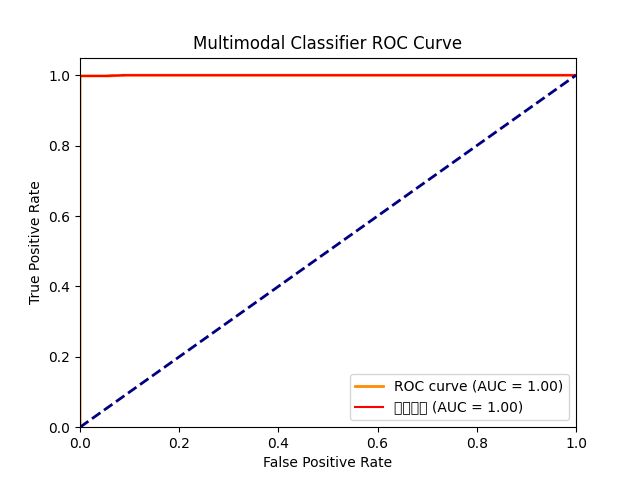
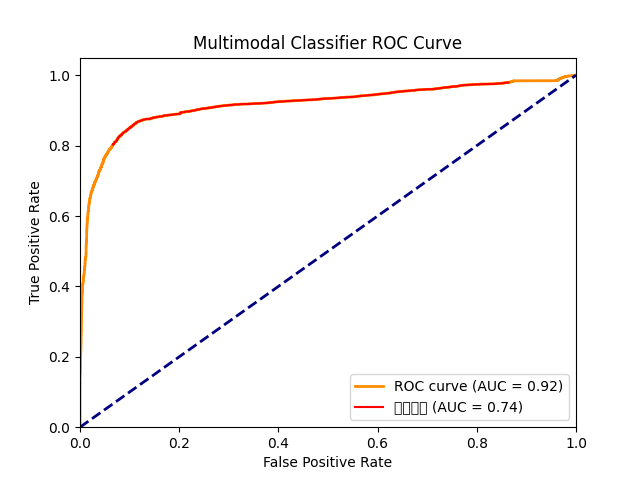
2025年7月2日，修改模态的融合方式

diff --git a/classification/modal_main.py b/classification/modal_main.py
@@ -5,7 +5,7 @@ sys.path.append('./utils')
 import torch
 import argparse
 from Config import config
-from utils.data_read import read_tensor, split_dataset, read_tensor_emr, read_emr
+from utils.data_read import read_tensor, read_tensor_emr, read_emr, read_kg
 from utils.common import save_model, loss_draw, acc_draw, other_draw, earlystop_draw
 from utils.dataprocess import Uni_processor, Processor
 from unitrainer import Trainer
@@ -18,11 +18,11 @@ parser = argparse.ArgumentParser()
 parser.add_argument('--do_train', action = 'store_true', help = '训练模型')
 parser.add_argument('--lr', default = 1e-4, help = '设置学习率', type = float)
 parser.add_argument('--weight_decay', default = 1e-4, help = '设置权重衰减', type = float)
-parser.add_argument('--epoch', default = 10, help = '设置训练轮数', type = int)
+parser.add_argument('--epoch', default = 100, help = '设置训练轮数', type = int)
 parser.add_argument('--do_test', action = 'store_true', help = '预测测试集数据')
 parser.add_argument('--load_model_path', default = None, help = '已经训练好的模型路径', type = str)
 parser.add_argument('--model_type', default = 'multimodal', action = 'store', help = '是否多模态融合', type = str)
-parser.add_argument('--fusion_type', default = 'KGBased', action = 'store', help = '多模态融合方式', type = str)
+parser.add_argument('--fusion_type', default = 'Bicrossmodel', action = 'store', help = '多模态融合方式', type = str)
 
 args = parser.parse_args()
 config.learning_rate = args.lr
@@ -43,6 +43,8 @@ if config.model_type == 'unimodal':
         from model.Unimodal import Univision_sa as unimodel
     elif config.fusion_type == 'Uniemr':
         from model.Unimodal import Uniemr as unimodel
+    elif config.fusion_type == 'Unikg':
+        from model.Unimodal import Unikg as unimodel
     model = unimodel(config)
     trainer = Trainer(config, processor, model, device)
 elif config.model_type == 'multimodal':
@@ -65,9 +67,12 @@ def train():
     if not config.model_type == 'unimodal':
         data = read_tensor_emr(config.labelfile, config.tensor_path, config.emr_path)
     
-    else:
+    elif config.fusion_type == 'Univision' or config.fusion_type == 'Univision_sa':
         data = read_tensor(config.labelfile, config.tensor_path)
-        # data = read_emr(config.labelfile, config.tensor_path, config.emr_path)
+    elif config.fusion_type == 'Uniemr':
+        data = read_emr(config.labelfile, config.tensor_path, config.emr_path)
+    else:
+        data = read_kg(config.labelfile, config.tensor_path)
         
     train_data = []
     val_data = []
@@ -81,12 +86,7 @@ def train():
             train_data.append(lookup_data[line.strip('\n')])
     with open('./data/exclusion_valid_id.txt', 'r') as f:
         for line in f.readlines():
-            val_data.append(lookup_data[line.strip('\n')])
-
-    # else:
-    #     data = read_tensor(config.labelfile, config.tensor_path)
-        # train_data, val_data, _ = split_dataset(data, config.train_ratio, config.valid_ratio, config.test_ratio)
-    
+            val_data.append(lookup_data[line.strip('\n')])    
 
     
     train_loader = processor(train_data, config.train_params)
@@ -150,18 +150,39 @@ def train():
 
 def test():
 
+    test_data = []
+
     if not config.model_type == 'unimodal':
         data = read_tensor_emr(config.labelfile, config.tensor_path, config.emr_path)
-    
-    else:
+        lookup_data = {dic['id']: dic for dic in data}
+        with open('./data/exclusion_test_id.txt', 'r') as f:
+            for line in f.readlines():
+                test_data.append(lookup_data[line.strip('\n')])
+    elif config.fusion_type == 'Univision' or config.fusion_type == 'Univision_sa':
         data = read_tensor(config.labelfile, config.tensor_path)
-        # data = read_emr(config.labelfile, config.tensor_path, config.emr_path)
+        lookup_data = {dic['id']: dic for dic in data}
+        with open('./data/exclusion_test_id.txt', 'r') as f:
+            for line in f.readlines():
+                test_data.append(lookup_data[line.strip('\n')])
+    elif config.fusion_type == 'Uniemr':
+        data = read_emr(config.labelfile, config.tensor_path, config.emr_path)
+        lookup_data = {dic['id']: dic for dic in data}
+        with open('./data/exclusiondata.txt', 'r') as f:
+            for line in f.readlines():
+                id = line.strip('\n') + '_1_1'
+                test_data.append(lookup_data[id])
+    else:
+        data = read_kg(config.labelfile, config.tensor_path)
+        lookup_data = {dic['id']: dic for dic in data}
+        with open('./data/exclusiondata.txt', 'r') as f:
+            for line in f.readlines():
+                if line.strip('\n') + '_2_1' in lookup_data:
+                    id = line.strip('\n') + '_2_1'
+                elif line.strip('\n') + '_1_1' in lookup_data:
+                    id = line.strip('\n') + '_1_1'
+                test_data.append(lookup_data[id])
 
-    test_data = []
-    lookup_data = {dic['id']: dic for dic in data}
-    with open('./data/exclusion_test_id.txt', 'r') as f:
-        for line in f.readlines():
-            test_data.append(lookup_data[line.strip('\n')])
+
 
     test_loader = processor(test_data, config.test_params)
 

diff --git a/classification/model/Multimodal.py b/classification/model/Multimodal.py
@@ -89,6 +89,14 @@ class Bicrossmodel(nn.Module):
             nn.Linear(config.output_hidden_dimension, config.num_labels)
         )
 
+        self.classifier_new = nn.Sequential(
+            nn.Dropout(config.fuse_dropout),
+            nn.Linear(512, 256),
+            nn.ReLU(inplace = True),
+            nn.Dropout(config.fuse_dropout),
+            nn.Linear(256, config.num_labels)
+        )
+
         self.loss_func = nn.CrossEntropyLoss()
         
     def forward(self, tensors, emrs, kgs, labels = None):
@@ -102,13 +110,16 @@ class Bicrossmodel(nn.Module):
 
         # focused_img, _ = self.fuse_attention(aligned_emr, aligned_img, aligned_img)
         # focused_emr, _ = self.fuse_attention(aligned_img, aligned_emr, aligned_emr) #参数共享
-
+        '''
         focused_img, _ = self.fuse_attention_img(aligned_emr, aligned_img, aligned_img)
         focused_emr, _ = self.fuse_attention_emr(aligned_img, aligned_emr, aligned_emr) 
 
         fused_feature = torch.cat([focused_img, focused_emr], dim = -1)
 
         prob_logits = self.classifier(fused_feature)
+        '''
+        focused_emr, _ = self.fuse_attention_emr(aligned_img, aligned_emr, aligned_emr)
+        prob_logits = self.classifier_new(focused_emr)
         pred_labels = torch.argmax(prob_logits, dim = 1)
 
         if labels is not None:
@@ -175,6 +186,15 @@ class KGBased(nn.Module):
             nn.Softmax(dim = 1)
         )
 
+        self.classifier_new = nn.Sequential(
+            nn.Dropout(config.fuse_dropout),
+            nn.Linear(512, 256),
+            nn.ReLU(inplace = True),
+            nn.Dropout(config.fuse_dropout),
+            nn.Linear(256, config.num_labels),
+            nn.Softmax(dim = 1)
+        )
+
         self.classifier_kg = nn.Sequential(
             nn.Dropout(0.3),
             nn.Linear(512, 256),
@@ -193,18 +213,24 @@ class KGBased(nn.Module):
         aligned_img = self.modality_proj_img(tensors)
         aligned_emr = self.modality_proj_emr(emrs)
 
+        '''
         focused_img, _ = self.fuse_attention(aligned_emr, aligned_img, aligned_img)
         focused_emr, _ = self.fuse_attention(aligned_img, aligned_emr, aligned_emr)
 
         fused_feature = torch.cat([focused_img, focused_emr], dim = -1)
-        # torch.dot()
+
 
         prob_logits_1 = self.classifier(fused_feature)
         prob_logits_2 = self.classifier_kg(kgs)
         prob_logits = torch.softmax((prob_logits_1 + prob_logits_2), dim = 1)
+        '''
+        focused_img, _ = self.fuse_attention(aligned_emr, aligned_img, aligned_img)
+        prob_logits_1 = self.classifier_new(focused_img)
+        prob_logits_2 = self.classifier_kg(kgs)
+        prob_logits = torch.softmax((prob_logits_1 + prob_logits_2), dim = 1)
+
         pred_labels = torch.argmax(prob_logits, dim = 1)
-        # print(prob_logits.shape)
-        # print(pred_labels.shape)
+        
 
         if labels is not None:
             loss = self.loss_func(prob_logits, labels)
@@ -257,12 +283,19 @@ class ImgwithKG(nn.Module):
         
         aligned_img = self.modality_proj_img(tensors)
 
+
+        '''
         focused_img, _ = self.fuse_attention_img(kgs, aligned_img, aligned_img)
         focused_kg, _ = self.fuse_attention_kg(aligned_img, kgs, kgs)
         
         fused_feature = torch.cat([focused_img, focused_kg], dim = -1)
 
         prob_logits = self.classifier_1(fused_feature)
+        '''
+
+        focused_img, _ = self.fuse_attention_img(kgs, aligned_img, aligned_img)
+        prob_logits = self.classifier(focused_img)
+
         pred_labels = torch.argmax(prob_logits, dim = 1)
 
         if labels is not None:

diff --git a/classification/Config.py b/classification/Config.py
@@ -6,9 +6,10 @@ class config:
     tensor_path = r'D:\BaiduNetdiskDownload\multimodal_breast_cancer\Features_directory\pt_files'
     labelfile = r'D:\BaiduNetdiskDownload\multimodal_breast_cancer\Image_list_new.csv'
     emr_path = r'D:\BaiduNetdiskDownload\multimodal_breast_cancer\EMR.csv'
-    # load_model_path = r'D:\BaiduNetdiskDownload\multimodal_breast_cancer\_model\unimodal\pytorch_model_unimodal_univision_0607_2.bin'
-    load_model_path = r'D:\BaiduNetdiskDownload\multimodal_breast_cancer\_model\multimodal\pytorch_model_multimodal_kgbased_0607_3.bin'
-    output_path = r'D:\BaiduNetdiskDownload\multimodal_breast_cancer\_model'
+    # load_model_path = r'D:\BaiduNetdiskDownload\multimodal_breast_cancer\_model_new\unimodal\pytorch_model_multimodal_bicrossmodel_0702_1.bin'
+    load_model_path = r'D:\BaiduNetdiskDownload\multimodal_breast_cancer\_model_new\multimodal\pytorch_model_multimodal_bicrossmodel_0702_1.bin'
+    # output_path = r'D:\BaiduNetdiskDownload\multimodal_breast_cancer\_model'
+    output_path = r'D:\BaiduNetdiskDownload\multimodal_breast_cancer\_model_new'
     all_data_path = r'./data/data.json'
 
 
@@ -42,7 +43,7 @@ class config:
     # dataloader parameters
     train_params = {'batch_size': 16, 'shuffle': True, 'num_workers': 2}
     val_params = {'batch_size': 16, 'shuffle': False, 'num_workers': 2}
-    test_params =  {'batch_size': 8, 'shuffle': False, 'num_workers': 2}
+    test_params =  {'batch_size': 2, 'shuffle': False, 'num_workers': 2}
     
     #EMR
     EMR_FEATURES = ['Patient ID', 

diff --git a/classification/model/Unimodal.py b/classification/model/Unimodal.py
@@ -64,7 +64,34 @@ class Uniemr(nn.Module):
         else:
             return pred_labels, prob_logits[:, 1]
 
-class Univision_sa(nn.Module):  #效果非常差   毕竟不是序列数据
+class Unikg(nn.Module):
+
+    def __init__(self, config):
+        super(Unikg, self).__init__()
+
+        self.classifier = nn.Sequential(
+            nn.Dropout(config.first_dropout),
+            nn.Linear(512, 256),
+            nn.Tanh(),
+            nn.Dropout(config.last_dropout),
+            nn.Linear(256, config.num_labels),
+            # nn.Softmax(dim = 1)
+        )
+
+        self.loss_func = nn.CrossEntropyLoss()
+
+    def forward(self, kgs, labels = None):
+        
+        prob_logits = self.classifier(kgs)
+        pred_labels = torch.argmax(prob_logits, dim = 1)
+
+        if labels is not None:
+            loss = self.loss_func(prob_logits, labels)
+            return pred_labels, loss
+        else:
+            return pred_labels, prob_logits[:, 1]
+
+class Univision_sa(nn.Module):
     
     def __init__(self, config):
         super(Univision_sa, self).__init__()

diff --git a/classification/trainer.py b/classification/trainer.py
@@ -22,7 +22,7 @@ class multitrainer():            #训练器
         loss_list = []
         true_labels, pred_labels = [], []
 
-        for batch in tqdm(train_loader, desc='----- [Training] '):
+        for batch in tqdm(train_loader, desc = '----- [Training] '):
             guids, imgs, ehrs, kgs, labels = batch
             imgs, ehrs, kgs, labels = imgs.to(self.device), ehrs.to(self.device), kgs.to(self.device), labels.to(self.device)
             pred, loss = self.model(imgs, ehrs, kgs, labels = labels)
@@ -49,7 +49,7 @@ class multitrainer():            #训练器
         val_loss = 0
         true_labels, pred_labels = [], []
 
-        for batch in tqdm(val_loader, desc='----- [Validing] '):
+        for batch in tqdm(val_loader, desc = '----- [Validing] '):
             guids, imgs, ehrs, kgs, labels = batch
             imgs, ehrs, kgs, labels = imgs.to(self.device), ehrs.to(self.device), kgs.to(self.device), labels.to(self.device)
             pred, loss = self.model(imgs, ehrs, kgs, labels = labels)

diff --git a/classification/utils/common.py b/classification/utils/common.py
@@ -49,7 +49,7 @@ def save_model(output_path, model_type, model):
     output_model_dir = os.path.join(output_path, model_type)    #输出模型的保存目录
     if not os.path.exists(output_model_dir): os.makedirs(output_model_dir)
     model_to_save = model.module if hasattr(model, 'module') else model     # Only save the model it-self
-    output_model_file = os.path.join(output_model_dir, 'pytorch_model_multimodal_imgwithkg_0617_1.bin')
+    output_model_file = os.path.join(output_model_dir, 'pytorch_model_multimodal_bicrossmodel_0702_1.bin')
     torch.save(model_to_save.state_dict(), output_model_file)
 
 def load_model(model, filename):
